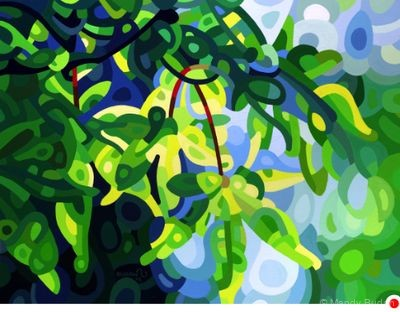
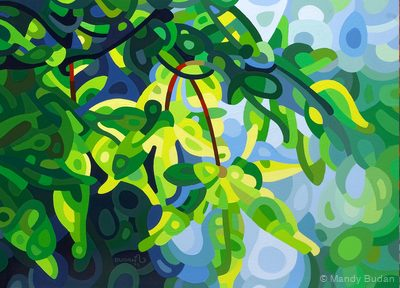
v2.7.114: Optimize 4 paintings (2007-forest-patterns, 2008-spring-light, 2008-winter-light, 2015-july-progression) — gallery 400px, detail 1400px, watermarked

diff --git a/html/2008-winter-light.html b/html/2008-winter-light.html
@@ -60,7 +60,7 @@
 <main>
   <section class="detail">
   <div class="detail-grid">
-    <div class="detail-image"><img src="../images/2008-winter-light.jpg" alt="The sun sets in the winter forest, the warm orange sky a counterpoint to the cool blue snow. by Mandy Budan"></div>
+    <div class="detail-image"><img src="../images/2008-winter-light_detail.jpg" alt="The sun sets in the winter forest, the warm orange sky a counterpoint to the cool blue snow. by Mandy Budan"></div>
     <div class="detail-info">
       <h1>Winter Light</h1>
       <div class="detail-meta">2008 - 12 x 16 - acrylic on wood<span class="soldbadge"></span></div>

diff --git a/html/2007-forest-patterns.html b/html/2007-forest-patterns.html
@@ -60,7 +60,7 @@
 <main>
   <section class="detail">
   <div class="detail-grid">
-    <div class="detail-image"><img src="../images/2007-forest-patterns.jpg" alt="The sun comes through in little pieces and the trunk leans into the dense forest. by Mandy Budan"></div>
+    <div class="detail-image"><img src="../images/2007-forest-patterns_detail.jpg" alt="The sun comes through in little pieces and the trunk leans into the dense forest. by Mandy Budan"></div>
     <div class="detail-info">
       <h1>Forest Patterns</h1>
       <div class="detail-meta">2007 - 16 x 20 - acrylic on wood<span class="soldbadge"></span></div>

diff --git a/html/2008-spring-light.html b/html/2008-spring-light.html
@@ -60,7 +60,7 @@
 <main>
   <section class="detail">
   <div class="detail-grid">
-    <div class="detail-image"><img src="../images/2008-spring-light.jpg" alt="The morning sun turns the early Spring leaves into patterns of light and dark. by Mandy Budan"></div>
+    <div class="detail-image"><img src="../images/2008-spring-light_detail.jpg" alt="The morning sun turns the early Spring leaves into patterns of light and dark. by Mandy Budan"></div>
     <div class="detail-info">
       <h1>Spring Light</h1>
       <div class="detail-meta">2008 - 11 x 14 - acrylic on wood<span class="soldbadge"></span></div>
